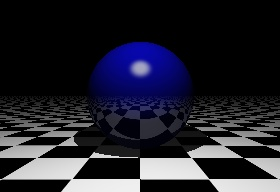
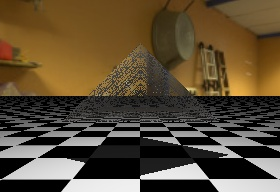
feat: normal maps working, refraction not

diff --git a/main.py b/main.py
@@ -9,6 +9,7 @@ from env_map import EnvironmentMap
 from light import DirectionalLight, PointLight, SpotLight
 from material import Material
 import material
+from normal_map import NormalMap
 from object import Plane, Sphere, Tetrahedron, Triangle
 from render import render, render_no_aa
 from scene import Scene
@@ -26,9 +27,12 @@ H_SAMPLES = 4
 MAX_QUALITY = 95
 DEFAULT_KS = 0.8
 DEFAULT_THICKNESS = 0.7
-EARTH_TEXTURE_FILENAME = "textures/earth.jpg"
 CHECKERS_TEXTURE_FILENAME = "textures/checkers.png"
+COIN_TEXTURE_FILENAME = "textures/ten pence heads normal.png"
+EARTH_TEXTURE_FILENAME = "textures/earth.jpg"
+GARAGE_TEXTURE_FILENAME = "textures/garage_1k.jpg"
 MICKEY_TEXTURE_FILENAME = "textures/mickey.jpg"
+NORMAL_TEXTURE_FILENAME = "textures/normal.jpg"
 PARK_TEXTURE_FILENAME = "textures/autumn_park.jpg"
 OUTPUT_IMG_FILENAME = "output.jpg"
 
@@ -84,11 +88,23 @@ def setup_objects():
         material.COLOR_BLUE,
         material.TYPE_DIFFUSE,
         specular=DEFAULT_KS,
-        kr=0.2
+        kr=0.4,
+        ior=1.5
     )
     sphere_shader = shaders.TYPE_DIFF_SPECULAR
     sphere_r = 25.0
     sphere = Sphere(sphere_pos, sphere_mtl, sphere_shader, sphere_r)
+    sphere_p0 = sphere_pos - np.array([sphere_r, sphere_r, sphere_r])
+    sphere_s = 2 * sphere_r
+    n0 = np.array([1, 0, 0])
+    n1 = np.array([0, 1, 0])
+    n2 = np.array([0, 0, 1])
+    normal_box = Box(sphere_p0, sphere_s, sphere_s, sphere_s, n0, n1, n2)
+    normal_img_text = ImageTexture(NORMAL_TEXTURE_FILENAME)
+    sphere_normal_texture = SolidImageTexture(
+        normal_img_text, normal_box
+    )
+    # sphere.add_normal_map(sphere_normal_texture)
     # El Mickey Shhiiino
     # mickey_pos = np.array([-50, 0, 100], dtype=float)
     # mickey_r = 20.0
@@ -113,23 +129,24 @@ def setup_objects():
     #     utils.MTL_DIFFUSE_BLUE, shaders.TYPE_DIFFUSE_COLORS, v0, v1, v2
     # )
     # Tetrahedron
-    # v0 = Vertex(np.array([-30, -10, 80], dtype=float))
-    # v1 = Vertex(np.array([0, 20, 80], dtype=float))
-    # v2 = Vertex(np.array([30, -10, 80], dtype=float))
-    # v3 = Vertex(np.array([0, 0, 60], dtype=float))
-    # tetrahedron = Tetrahedron(
-    #     utils.MTL_DIFFUSE_BLUE, shaders.TYPE_DIFFUSE_COLORS, v0, v1, v2, v3
-    # )
-    return [sphere, plane]
+    v0 = Vertex(np.array([-30, -10, 80], dtype=float))
+    v1 = Vertex(np.array([0, 20, 80], dtype=float))
+    v2 = Vertex(np.array([30, -10, 80], dtype=float))
+    v3 = Vertex(np.array([0, 0, 60], dtype=float))
+    tetra_mtl = Material(kr=0.6)
+    tetrahedron = Tetrahedron(
+        tetra_mtl, shaders.TYPE_DIFFUSE_COLORS, v0, v1, v2, v3
+    )
+    return [tetrahedron, plane]
 
 
 def setup_scene():
     cameras = setup_cameras()
     lights = setup_lights()
     objects = setup_objects()
-    # env_map = EnvironmentMap(PARK_TEXTURE_FILENAME)
-    # scene = Scene(cameras, lights, objects, env_map)
-    scene = Scene(cameras, lights, objects)
+    env_map = EnvironmentMap(GARAGE_TEXTURE_FILENAME)
+    scene = Scene(cameras, lights, objects, env_map)
+    # scene = Scene(cameras, lights, objects)
     return scene
 
 

diff --git a/raytrace.py b/raytrace.py
@@ -148,10 +148,48 @@ def raytrace(ray, scene, depth=DEFAULT_RAYTRACER_DEPTH, kr=1):
         if obj_h.material.kr > 0 and depth > 0 and kr > MIN_KR:
             n = obj_h.normal_at(ph)
             C = np.dot(n, eye)
+            # term = ((C ** 2 - 1) / obj_h.material.ior ** 2) + 1
+            # if term < 0:
+            #     fresnel = 1
+            # else:
+            #     sin_theta = np.sqrt((1 - C ** 2))
+            #     x1 = np.sin(utils.degree2radians(56))
+            #     x2 = np.sin(utils.degree2radians(90))
+            #     y0 = 0.05
+            #     if sin_theta < x1:
+            #         fresnel = y0 * (1 - (sin_theta / x1))
+            #     elif sin_theta < x2:
+            #         fresnel = (sin_theta - x1) / (x2 - x1)
+            #     else:
+            #         fresnel = 1
+            # r = -1 * eye + 2 * C * n
+            # reflected_ray = Ray(ph, utils.normalize(r))
+            # new_kr = kr * obj_h.material.kr
+            # fresnel = 1
+            # if fresnel < 1:
+            #     ior = obj_h.material.ior
+            #     t = (-1 / ior) * eye + np.dot(((C / ior) - np.sqrt(term)), n)
+            #     transmitted_ray = Ray(ph, utils.normalize(t))
+            #     reflection = raytrace(
+            #         reflected_ray, scene, depth - 1, new_kr
+            #     )
+            #     refraction = raytrace(
+            #         transmitted_ray, scene, depth - 1, new_kr
+            #     )
+            #     fresnel = 0.2
+            #     reflection_color = (
+            #         reflection * fresnel + refraction * (1 - fresnel)
+            #     )
+            # else:
+            #     reflection_color = raytrace(
+            #         reflected_ray, scene, depth - 1, new_kr
+            #     )
             r = -1 * eye + 2 * C * n
-            new_ray = Ray(ph, r)
+            reflected_ray = Ray(ph, utils.normalize(r))
             new_kr = kr * obj_h.material.kr
-            reflection_color = raytrace(new_ray, scene, depth - 1, new_kr)
+            reflection_color = raytrace(
+                reflected_ray, scene, depth - 1, new_kr
+            )
             final_color = final_color * (1 - new_kr) + reflection_color * new_kr
         return final_color
     # No hit

diff --git a/object.py b/object.py
@@ -1,5 +1,6 @@
 import numpy as np
 # Local modules
+from normal_map import NormalMap
 import utils
 
 
@@ -12,12 +13,15 @@ class Object:
         position(numpy.array): A 3D point that represents the position
         material(Material): The material to be rendered for this object
         shader_type(string): The type of shader to use for this object
+        normal_map(NormalMap): An object that allows you to get normals mapping
+            points of the object to a texture
     """
 
     def __init__(self, position, material, shader_type):
         self.position = position
         self.material = material
         self.shader_type = shader_type
+        self.normal_map = None
 
     def normal_at(self, p):
         """
@@ -30,6 +34,9 @@ class Object:
         Map point p into texture coordinates u, v for this object.
         """
         pass
+
+    def add_normal_map(self, texture):
+        self.normal_map = NormalMap(texture, self)
 
 
 class Sphere(Object):
@@ -52,6 +59,11 @@ class Sphere(Object):
 
     def normal_at(self, p):
         # This doesn't validate that p is in the surface
+        if self.normal_map:
+            return self.normal_map.get_normal(p)
+        return (p - self.position) / float(self.radius)
+
+    def physical_normal_at(self, p):
         return (p - self.position) / float(self.radius)
 
     def uvmap(self, p):

diff --git a/normal_map.py b/normal_map.py
@@ -1,0 +1,28 @@
+import numpy as np
+# Local Modules
+from constants import MAX_COLOR_VALUE
+from texture import ImageTexture, SolidImageTexture
+import utils
+
+
+class NormalMap:
+    def __init__(self, texture, obj):
+        self.texture = texture
+        self.obj = obj
+
+    def get_normal(self, p):
+        if isinstance(self.texture, ImageTexture):
+            u, v = self.obj.uvmap(p)
+            color = self.texture.get_color(u, v)
+        else:
+            color = self.texture.get_color(p)
+        r, g, b = color
+        # x and y will be from [-1 to 1] and z from [0 to 1]
+        x = 2 * (r / np.float(MAX_COLOR_VALUE)) - 1
+        y = 2 * (g / np.float(MAX_COLOR_VALUE)) - 1
+        z = (b / float(MAX_COLOR_VALUE))
+        normal_vector = np.array([x, y, z])
+        normal_vector = utils.normalize(normal_vector)
+        local_diff = normal_vector - np.array([0, 0, 1])
+        final_normal = self.obj.physical_normal_at(p) + local_diff
+        return final_normal

diff --git a/texture.py b/texture.py
@@ -70,12 +70,13 @@ class ImageTexture(Texture):
         # t and s are interpolation parameters that go from 0 to 1
         t = x - I + 0.5
         s = y - J + 0.5
+        # Ensure this only gives RGB and not A
         color = (
                 self.img[J - 1][I - 1] * (1 - t) * (1 - s)
                 + self.img[J - 1][I] * t * (1 - s)
                 + self.img[J][I - 1] * (1 - t) * s
                 + self.img[J][I] * t * s
-        )
+        )[:3]
         return color
 
 

diff --git a/material.py b/material.py
@@ -28,13 +28,15 @@ class Material:
         material_type=TYPE_DIFFUSE,
         specular=1.0,
         border=1.0,
-        kr=0.0
+        kr=0.0,
+        ior=1.0
     ):
         self.diffuse = diffuse
         self.material_type = material_type
         self.specular = specular
         self.border = border
         self.kr = kr
+        self.ior = ior
         self.texture = None
 
     def add_texture(self, texture):
